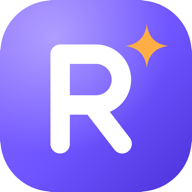
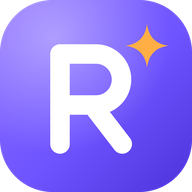
fix(brand): esquinas blancas en los íconos y borde ámbar invisible
Dos defectos del commit anterior, uno reportado y otro que apareció
revisando.

Esquinas blancas: qlmanage compone la transparencia del SVG contra blanco,
así que las variantes redondeadas (icon-192, icon-512, logo) quedaron con
un cuadrado blanco alrededor del squircle. Las cuadradas se habían salvado
solo porque son full-bleed. Ahora los PNG redondeados se generan
enmascarando el render cuadrado con un rounded-rect en PIL, hecho a 4x y
bajado con LANCZOS para que la curva quede limpia. De paso pesan menos:
logo 710 -> 484 KB, icon-512 150 -> 88 KB.

Borde ámbar invisible: `glass` declaraba `border` con la forma corta y se
emite después de las utilidades de Tailwind, así que pisaba el
`border-reward` de la tarjeta de respaldo en /inicio y la de recompensa en
/pagar. Las dos mostraban filo blanco en vez de ámbar y nada lo avisaba.
`glass` ya no declara borde: lo pone quien la usa, con una sola clase de
color, y las dos variantes quedan cerradas como primitivas (`card` y
`cardReward`).

Además, consistencia con el sistema recién definido:
- La bottom nav pasa a `glass-strong`; antes era un fondo opaco con blur a
  mano, del lenguaje anterior.
- El botón de escanear usa el degradado, como corresponde a la acción
  protagonista.
- `pressable` en las pestañas de la nav y en el teclado numérico: el
  estándar dice que todo lo presionable lo lleva.
- La landing usaba una tarjeta escrita a mano en vez de la primitiva, y
  había quedado opaca entre tarjetas de vidrio.
[…]

diff --git a/src/components/bottom-nav.tsx b/src/components/bottom-nav.tsx
@@ -35,14 +35,14 @@ export function BottomNav() {
   const t = useTranslations("nav");
   const pathname = usePathname();
   const tab = (href: string) =>
-    `flex min-h-12 flex-1 flex-col items-center justify-center gap-1 text-xs font-semibold ${
+    `pressable flex min-h-12 flex-1 flex-col items-center justify-center gap-1 text-xs font-semibold ${
       pathname.startsWith(href) ? "text-primary" : "text-muted"
     }`;
 
   return (
     <nav
       aria-label={t("label")}
-      className="fixed inset-x-0 bottom-0 z-10 border-t border-elevated bg-background/95 pb-[env(safe-area-inset-bottom)] backdrop-blur"
+      className="glass-strong fixed inset-x-0 bottom-0 z-10 border-t border-white/10 pb-[env(safe-area-inset-bottom)]"
     >
       <div className="mx-auto flex max-w-md items-end px-6 pt-2 pb-2">
         <Link href="/inicio" className={tab("/inicio")} aria-current={pathname.startsWith("/inicio") ? "page" : undefined}>
@@ -51,10 +51,10 @@ export function BottomNav() {
         </Link>
         <Link
           href="/escanear"
-          className="-mt-8 flex flex-1 flex-col items-center gap-1 text-xs font-semibold text-text"
+          className="pressable -mt-8 flex flex-1 flex-col items-center gap-1 text-xs font-semibold text-text"
           aria-current={pathname.startsWith("/escanear") ? "page" : undefined}
         >
-          <span className="flex h-16 w-16 items-center justify-center rounded-full bg-primary text-on-primary shadow-glow active:bg-primary-pressed">
+          <span className="gradient-primary flex h-16 w-16 items-center justify-center rounded-full text-on-primary shadow-glow">
             <ScanIcon />
           </span>
           {t("scan")}

diff --git a/src/components/ui.ts b/src/components/ui.ts
@@ -1,8 +1,16 @@
 // Primitivas del sistema de diseño. Las reglas están en docs/BRAND.md.
 // `gradient-primary`, `glass` y `pressable` se definen en app/globals.css.
+//
+// Cada variante de tarjeta lleva UNA sola clase de color de borde. No le
+// agregues otra encima: `glass` no declara borde justamente para que la que
+// pongas acá sea la única, pero dos clases de color entre sí sí compiten.
 
 export const primaryButton =
   "pressable flex min-h-12 w-full items-center justify-center rounded-button gradient-primary px-6 py-3 font-bold text-on-primary shadow-glow active:brightness-90 disabled:opacity-50 disabled:shadow-none";
 export const secondaryButton =
   "pressable flex min-h-12 w-full items-center justify-center rounded-button border border-elevated px-6 py-3 font-semibold text-text active:bg-surface disabled:opacity-50";
-export const card = "glass rounded-card p-4";
+
+/** Tarjeta por defecto: vidrio con filo blanco. */
+export const card = "glass rounded-card border border-white/10 p-4";
+/** Tarjeta de recompensa: mismo vidrio, filo ámbar. */
+export const cardReward = "glass rounded-card border border-reward p-4";

diff --git a/src/app/globals.css b/src/app/globals.css
@@ -75,12 +75,15 @@ body {
 
 /* --- Superficies ------------------------------------------------------- */
 
-/* Vidrio: el material por defecto de tarjetas, nav y modales. */
+/* Vidrio: el material por defecto de tarjetas, nav y modales.
+   `glass` a propósito NO declara borde: si lo hiciera con la forma corta,
+   pisaría cualquier `border-*` de color que le pongan al lado, porque las
+   utilidades propias se emiten después que las de Tailwind. El borde lo pone
+   quien la usa, con una sola clase de color. */
 @utility glass {
   background-color: color-mix(in oklab, var(--color-surface) 62%, transparent);
   -webkit-backdrop-filter: blur(20px) saturate(140%);
   backdrop-filter: blur(20px) saturate(140%);
-  border: 1px solid rgba(255, 255, 255, 0.08);
 }
 
 /* Vidrio más denso, para lo que se apoya sobre contenido (nav, hojas). */
@@ -88,7 +91,6 @@ body {
   background-color: color-mix(in oklab, var(--color-surface) 86%, transparent);
   -webkit-backdrop-filter: blur(28px) saturate(150%);
   backdrop-filter: blur(28px) saturate(150%);
-  border: 1px solid rgba(255, 255, 255, 0.1);
 }
 
 @utility gradient-primary {

diff --git a/src/app/(cliente)/inicio/page.tsx b/src/app/(cliente)/inicio/page.tsx
@@ -6,7 +6,7 @@ import { useEffect, useMemo, useState } from "react";
 import { FxNote } from "@/components/fx-note";
 import { LocaleSwitcher } from "@/components/locale-switcher";
 import { MerchantAvatar } from "@/components/merchant-avatar";
-import { card, primaryButton, secondaryButton } from "@/components/ui";
+import { card, cardReward, primaryButton, secondaryButton } from "@/components/ui";
 import { useAccount } from "@/lib/account/account-context";
 import type { ActivityMerchant } from "@/lib/api/activity";
 import { hasBackup } from "@/lib/backup-prompt";
@@ -127,7 +127,7 @@ export default function HomePage() {
       </Link>
 
       {unprotected ? (
-        <Link href="/respaldo?next=/inicio" className={`${card} flex flex-col gap-1 border-reward`}>
+        <Link href="/respaldo?next=/inicio" className={`${cardReward} flex flex-col gap-1`}>
           <span className="font-semibold">{t("protectTitle")}</span>
           <span className="text-sm text-muted">{t("protectBody")}</span>
           <span className="text-sm font-semibold text-primary">{t("protectCta")}</span>

diff --git a/src/app/(cliente)/pagar/[chargeId]/page.tsx b/src/app/(cliente)/pagar/[chargeId]/page.tsx
@@ -6,7 +6,7 @@ import { useLocale, useTranslations } from "next-intl";
 import { useCallback, useEffect, useRef, useState } from "react";
 import { FxNote } from "@/components/fx-note";
 import { MerchantAvatar } from "@/components/merchant-avatar";
-import { card, primaryButton, secondaryButton } from "@/components/ui";
+import { cardReward, primaryButton, secondaryButton } from "@/components/ui";
 import { useAccount } from "@/lib/account/account-context";
 import { humanAccountError } from "@/lib/account/errors";
 import type { ChargeView } from "@/lib/api/charges";
@@ -220,7 +220,7 @@ export default function PayPage() {
         <FxNote />
       </div>
       {cashback > 0n || points > 0n ? (
-        <div className={`${card} flex flex-col gap-1 border-reward`}>
+        <div className={`${cardReward} flex flex-col gap-1`}>
           {cashback > 0n ? (
             <p className="font-semibold text-reward">
               {t("rewardCashback", { amount: money(cashback), merchant: charge.merchant.name })}

diff --git a/src/app/page.tsx b/src/app/page.tsx
@@ -6,7 +6,7 @@ import { useRouter } from "next/navigation";
 import { useEffect, useState } from "react";
 import { ConfirmIdentity } from "@/components/confirm-identity";
 import { LocaleSwitcher } from "@/components/locale-switcher";
-import { primaryButton, secondaryButton } from "@/components/ui";
+import { card, primaryButton, secondaryButton } from "@/components/ui";
 import { useAccount } from "@/lib/account/account-context";
 
 
@@ -46,7 +46,7 @@ export default function Home() {
       {account.error ? (
         <div
           role="alert"
-          className="flex w-full flex-col gap-3 rounded-card border border-elevated bg-surface p-4"
+          className={`${card} flex w-full flex-col gap-3`}
         >
           <p className="text-sm text-error">{tErrors(account.error)}</p>
           <button

diff --git a/src/components/numeric-keypad.tsx b/src/components/numeric-keypad.tsx
@@ -43,7 +43,7 @@ export function NumericKeypad({ value, onChange, decimals, separator, maxInteger
             type="button"
             onClick={() => press(key)}
             aria-label={key === "del" ? t("delete") : key === "." ? t("decimal") : undefined}
-            className="min-h-16 rounded-card bg-surface text-2xl font-semibold text-text active:bg-elevated"
+            className="pressable min-h-16 rounded-card bg-surface text-2xl font-semibold text-text active:bg-elevated"
           >
             {key === "del" ? "⌫" : key === "." ? separator : key}
           </button>

diff --git a/docs/BRAND.md b/docs/BRAND.md
@@ -87,8 +87,22 @@ decorativo y es invisible como indicador. El anillo de foco ya está definido gl
 El sistema tiene tres y nada más:
 
 1. **Vidrio** (`glass`, `glass-strong`) — el material por defecto. Superficie translúcida con
-   `backdrop-filter`, borde de un pixel al 8% de blanco. Las tarjetas, la nav y los modales son
-   vidrio. `glass-strong` es para lo que se apoya encima del contenido y necesita tapar.
+   `backdrop-filter`. Las tarjetas, la nav y los modales son vidrio. `glass-strong` es para lo que
+   se apoya encima del contenido y necesita tapar.
+
+   **`glass` no declara borde, a propósito.** Si lo declarara con la forma corta (`border: 1px
+   solid …`), pisaría cualquier `border-*` de color puesto al lado, porque las utilidades propias
+   se emiten después que las de Tailwind — y el borde ámbar de las tarjetas de recompensa
+   desaparecía sin que nada avisara. El borde lo pone quien usa el vidrio, con **una sola** clase
+   de color. Por eso las tarjetas vienen como primitivas cerradas en `src/components/ui.ts`:
+
+   | Primitiva | Qué es |
+   | --- | --- |
+   | `card` | Vidrio con filo blanco al 10%. La tarjeta por defecto. |
+   | `cardReward` | El mismo vidrio con filo `reward`. Para lo que celebra o avisa de un premio. |
+
+   No le agregues un segundo `border-*` encima a ninguna de las dos: si hace falta otra variante,
+   se agrega acá.
 2. **Degradado** (`gradient-primary`, `gradient-reward`) — para rellenos protagonistas: el botón
    principal, el logo, una cifra grande con `text-gradient`. Nunca en texto corrido.
 3. **Luz** (`shadow-glow`, `shadow-glow-reward`, `shadow-lift`) — **no usamos sombras duras.** Lo
